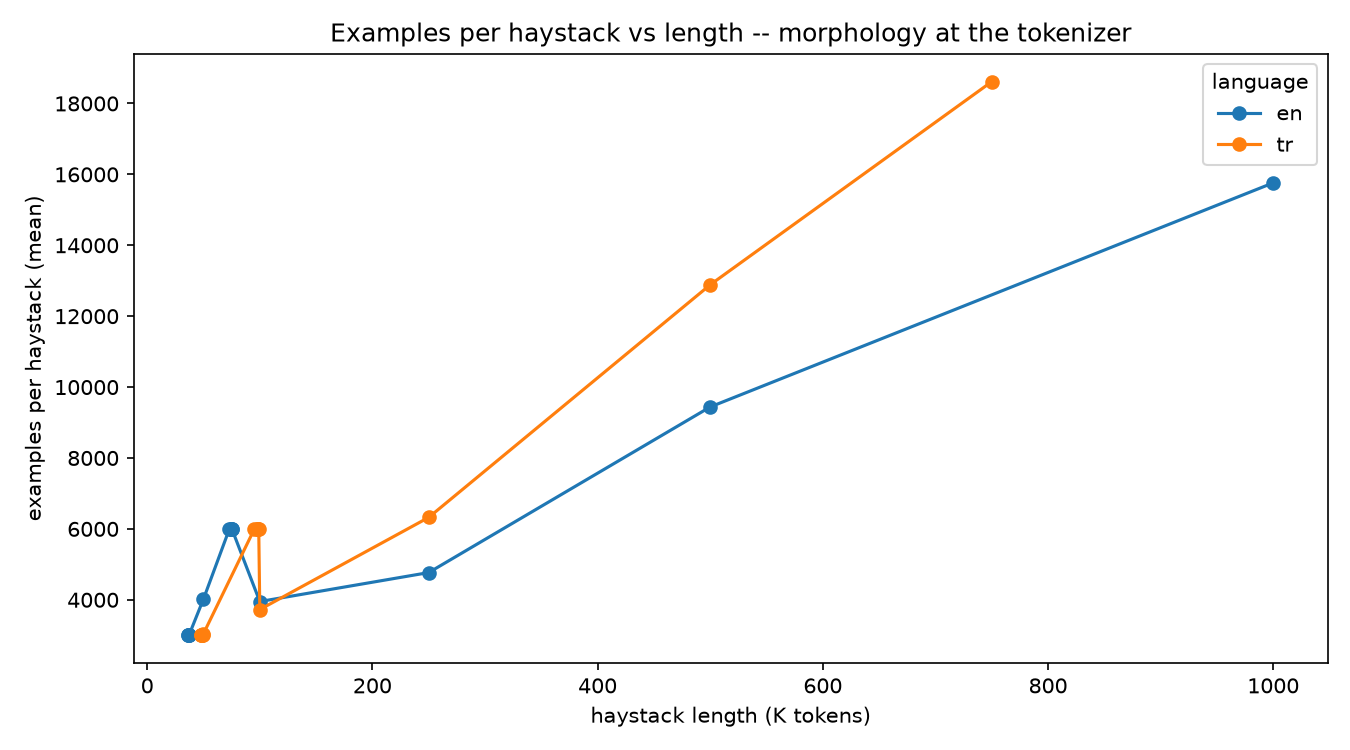
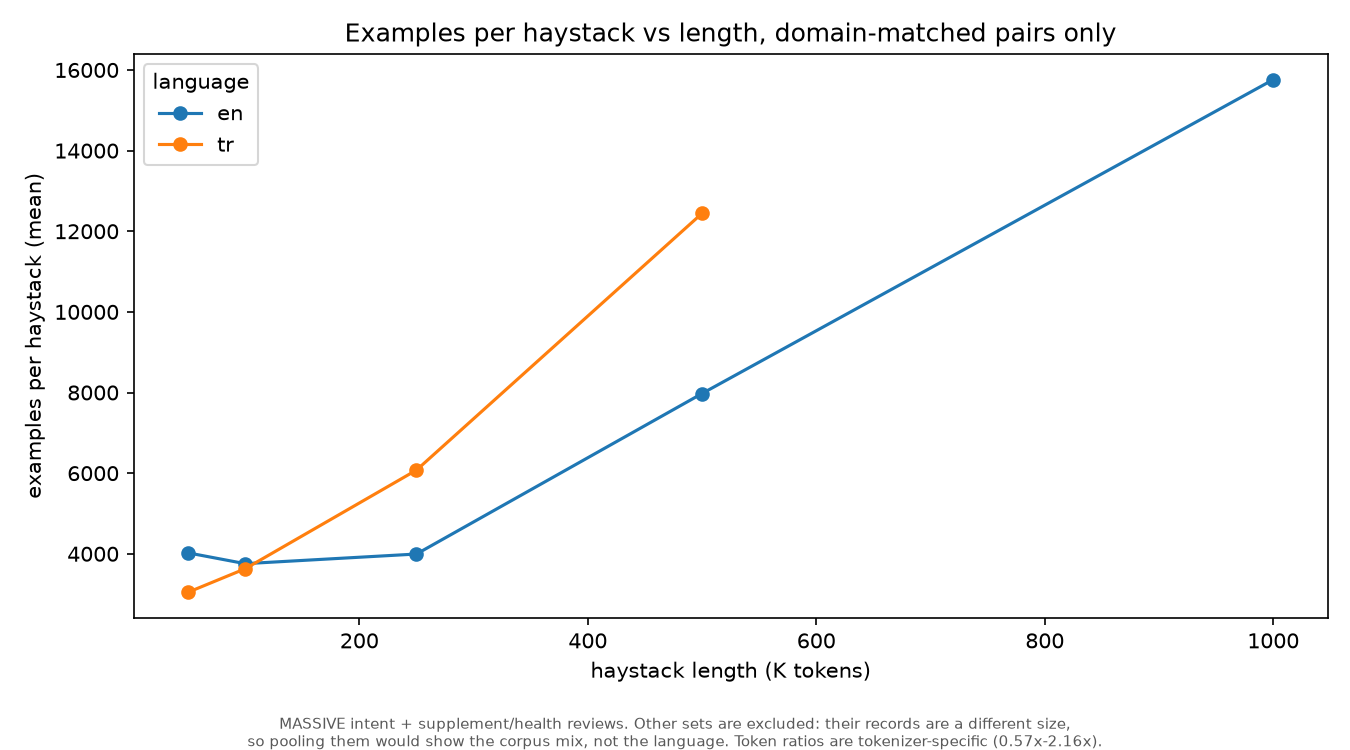
Scope the LICENCE to code, and stop the figures overstating what they show
LICENSE was a bare MIT file in a repo that ships CC-BY-SA (share-alike,
contagious) subsets and two with no licence at all. A reader could fairly have
taken MIT as a grant over the data. The datacard's own "before release"
checklist has asked for this since v0.6.2 and it was never done. Added a scope
header naming each subset's actual terms.

Figures were regenerated from 5 September manifests, so they predated the
11-set build, and the generator still reserved slots for shift and top_k -- a
figure with a slot for a family nobody receives invites the reader to ask which
sets have it. Removed both, regenerated over all eleven sets.

Two defects found while regenerating:

- 11 sets against matplotlib's 10-colour cycle wraps, and the two that collided
  were amazon_hpc_en and vitamins_tr, the twin pair a reader is most likely to
  be comparing. Explicit tab20 colours.
- examples_vs_length pooled every set by language and titled itself "morphology
  at the tokenizer". How many records fit a token budget is a property of the
  corpus as much as the language: an interpress_tr article is ~1,650 chars, a
  MASSIVE utterance ~30. Pooled over eleven sets the line doubled back on itself
  and Turkish fell at 1M, neither of which is morphology. Restricted to the
  domain-matched pairs, retitled, and the exclusion is now stated on the figure
  and printed at generation time.

No data or datacard change, so the Hugging Face copy is unaffected.
test_golden and verify_release pass.

diff --git a/scripts/make_readme_figs.py b/scripts/make_readme_figs.py
@@ -16,9 +16,13 @@ from pathlib import Path
 import pandas as pd
 import matplotlib.pyplot as plt
 
-FAMILY_ORDER = ["count", "proportion", "shift",
-                "most_common", "least_common", "second_most", "label_vs_label",
-                "entity_count", "entity_argmax", "top_k", "pairwise"]
+# The nine families that ship in v0.7.0, in report order. `shift` (withdrawn
+# v0.7.0) and `top_k` (withdrawn v0.5.0 with the corpus it shipped on) are
+# deliberately absent: a figure that reserves a slot for a family nobody
+# receives invites the reader to ask which sets have it.
+FAMILY_ORDER = ["count", "proportion", "most_common", "least_common",
+                "second_most", "label_vs_label",
+                "entity_count", "entity_argmax", "pairwise"]
 
 
 def load_sets(dirs):
@@ -47,7 +51,11 @@ def fig_family_counts(dist: pd.DataFrame, out: Path):
                       # a family absent from FAMILY_ORDER was previously dropped
                       # from the figure without a word -- append it instead
                       + sorted(set(dist["family"].unique()) - set(FAMILY_ORDER))))
-    ax = pivot.plot(kind="bar", figsize=(9, 5), width=0.8)
+    # 11 sets against matplotlib's 10-colour default cycle silently wraps, and
+    # the two that collide are amazon_hpc_en and vitamins_tr -- the twin pair a
+    # reader is most likely to be comparing. tab20 gives every set its own hue.
+    colors = plt.get_cmap("tab20")(range(len(pivot.columns)))
+    ax = pivot.plot(kind="bar", figsize=(11, 5), width=0.8, color=colors)
     ax.set_ylabel("questions")
     ax.set_xlabel("question family")
     ax.set_title("Question-family counts per set")
@@ -57,20 +65,47 @@ def fig_family_counts(dist: pd.DataFrame, out: Path):
     plt.close()
 
 
+# How many records fit in a token budget is a property of the CORPUS as much as
+# of the language: an interpress_tr news article is ~1,650 characters and a
+# MASSIVE utterance is ~30. Pooling every set by language therefore does not
+# measure morphology, it measures which corpora happen to sit at each tier, and
+# when this was run over all eleven sets it produced a line that doubled back on
+# itself and a Turkish curve that fell at 1M. Restricted to the DOMAIN-MATCHED
+# pairs, where the two languages hold the same kind of record, the comparison is
+# real.
+LENGTH_PAIR_SETS = ["tr_intent_out", "en_intent_out",
+                    "vitamins_tr_out", "amazon_hpc_en_out"]
+
+
 def fig_examples_vs_length(hay: pd.DataFrame, out: Path):
+    pairs = hay[hay["set"].isin(LENGTH_PAIR_SETS)]
+    if pairs.empty:
+        print("  [skip] examples_vs_length: none of the matched-pair sets were "
+              "passed; the figure is only interpretable on those.")
+        return
+    dropped = sorted(set(hay["set"].unique()) - set(LENGTH_PAIR_SETS))
     fig, ax = plt.subplots(figsize=(9, 5))
-    agg = (hay.groupby(["language", "target_tokens"])["n_examples"]
+    agg = (pairs.groupby(["language", "target_tokens"])["n_examples"]
            .mean().reset_index())
     for lang, g in agg.groupby("language"):
         g = g.sort_values("target_tokens")
         ax.plot(g["target_tokens"] / 1000, g["n_examples"], marker="o", label=lang)
     ax.set_xlabel("haystack length (K tokens)")
     ax.set_ylabel("examples per haystack (mean)")
-    ax.set_title("Examples per haystack vs length -- morphology at the tokenizer")
+    ax.set_title("Examples per haystack vs length, domain-matched pairs only")
     ax.legend(title="language")
-    plt.tight_layout()
+    fig.text(0.5, 0.005,
+             "MASSIVE intent + supplement/health reviews. Other sets are excluded: "
+             "their records are a different size,\nso pooling them would show the "
+             "corpus mix, not the language. Token ratios are tokenizer-specific "
+             "(0.57x-2.16x).",
+             ha="center", fontsize=7, color="0.35")
+    plt.tight_layout(rect=(0, 0.06, 1, 1))
     plt.savefig(out / "examples_vs_length.png", dpi=150)
     plt.close()
+    if dropped:
+        print(f"  [note] examples_vs_length excludes {len(dropped)} set(s) whose "
+              f"record size is not comparable: {', '.join(dropped)}")
 
 
 def _discover():
